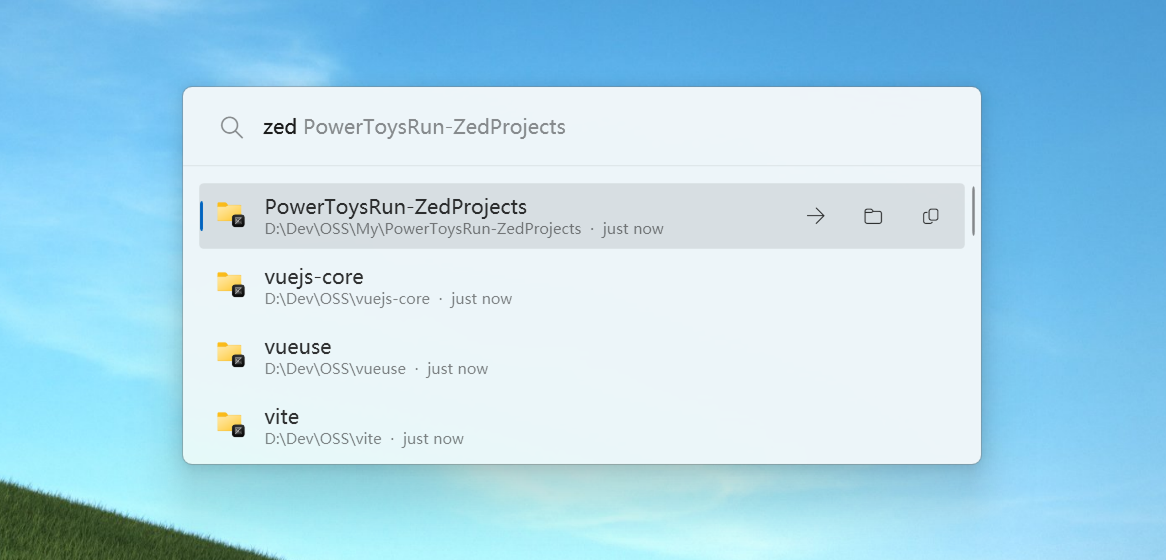
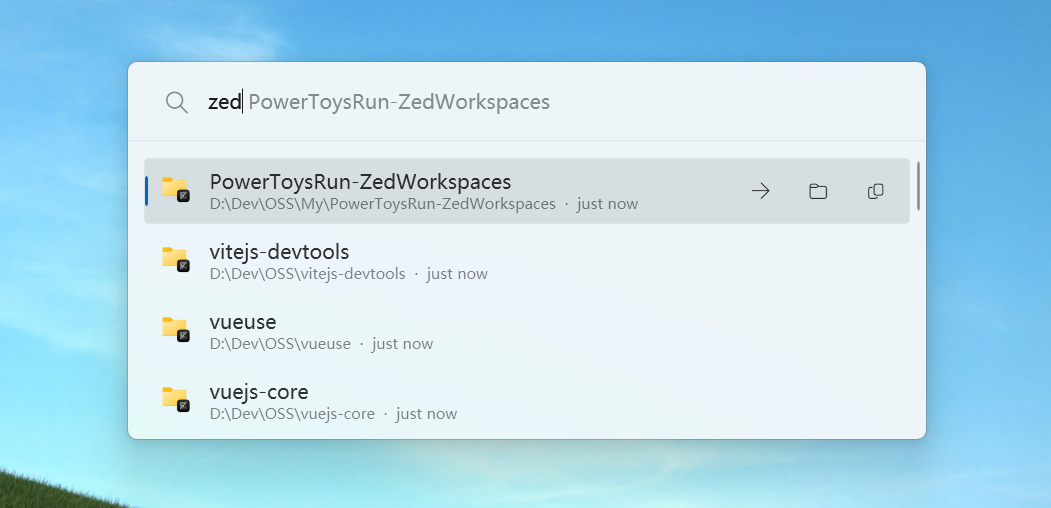
refactor: rename plugin ZedRecentProjects to ZedWorkspaces

diff --git a/tools/plugin-smoke/Program.cs b/tools/plugin-smoke/Program.cs
@@ -5,7 +5,7 @@ using System.Linq;
 using System.Reflection;
 using Microsoft.PowerToys.Settings.UI.Library;
 using Wox.Plugin;
-using ZedRecentProjects;
+using ZedWorkspaces;
 
 // The real PowerToys host resolves plugins' helper assemblies (e.g. Testably.Abstractions)
 // from its own install directory. Mirror that here so Query() can run outside the host.
@@ -55,7 +55,7 @@ foreach (var p in projects)
 Console.WriteLine("\n== TextMatcher checks ==");
 Check("vibe", "vibe-quota");
 Check("vibe", "D:\\Dev\\OSS\\My\\vibe-usage");
-Check("zed", "ZedRecentProjects");
+Check("zed", "ZedWorkspaces");
 Check("resume", "D:\\Work\\Resume\\2026\\RESUME.md");
 Check("nosuch", "vibe-quota");
 Check("", "anything");

diff --git a/src/ZedWorkspaces/Main.cs b/src/ZedWorkspaces/Main.cs
@@ -7,10 +7,10 @@ using System.Windows.Input;
 using Microsoft.PowerToys.Settings.UI.Library;
 using Wox.Plugin;
 
-namespace ZedRecentProjects;
+namespace ZedWorkspaces;
 
 /// <summary>
-/// Main class of the "Zed Recent Projects" plugin.
+/// Main class of the "Zed Workspaces" plugin.
 /// </summary>
 public class Main : IPlugin, IContextMenu, ISettingProvider, IDisposable
 {
@@ -22,7 +22,7 @@ public class Main : IPlugin, IContextMenu, ISettingProvider, IDisposable
     /// <summary>
     /// Name of the plugin.
     /// </summary>
-    public string Name => "Zed Recent Projects";
+    public string Name => "Zed Workspaces";
 
     /// <summary>
     /// Description of the plugin.

diff --git a/src/ZedWorkspaces/TextMatcher.cs b/src/ZedWorkspaces/TextMatcher.cs
@@ -2,7 +2,7 @@ using System;
 using System.Collections.Generic;
 using System.Linq;
 
-namespace ZedRecentProjects;
+namespace ZedWorkspaces;
 
 /// <summary>
 /// Self-contained fuzzy matcher (case-insensitive). No dependency on the Wox host or pinyin

diff --git a/src/ZedWorkspaces/ZedDatabase.cs b/src/ZedWorkspaces/ZedDatabase.cs
@@ -5,7 +5,7 @@ using System.Linq;
 using System.Runtime.InteropServices;
 using Microsoft.Data.Sqlite;
 
-namespace ZedRecentProjects;
+namespace ZedWorkspaces;
 
 /// <summary>
 /// Reads the recent project list from Zed's SQLite workspace database.

diff --git a/tools/plugin-smoke/StubApi.cs b/tools/plugin-smoke/StubApi.cs
@@ -3,7 +3,7 @@ using System.Collections.Generic;
 using ManagedCommon;
 using Wox.Plugin;
 
-namespace ZedRecentProjects;
+namespace ZedWorkspaces;
 
 /// <summary>
 /// Minimal host stub so the plugin can be exercised outside PowerToys.

diff --git a/src/ZedWorkspaces/ZedLauncher.cs b/src/ZedWorkspaces/ZedLauncher.cs
@@ -3,7 +3,7 @@ using System.Collections.Generic;
 using System.Diagnostics;
 using System.IO;
 
-namespace ZedRecentProjects;
+namespace ZedWorkspaces;
 
 /// <summary>
 /// Launches projects in the Zed editor via its CLI.

diff --git a/src/ZedWorkspaces/RelativeTime.cs b/src/ZedWorkspaces/RelativeTime.cs
@@ -1,6 +1,6 @@
 using System;
 
-namespace ZedRecentProjects;
+namespace ZedWorkspaces;
 
 /// <summary>
 /// Formats an UTC timestamp as a compact relative time string.

diff --git a/src/ZedWorkspaces/ZedProject.cs b/src/ZedWorkspaces/ZedProject.cs
@@ -1,4 +1,4 @@
-namespace ZedRecentProjects;
+namespace ZedWorkspaces;
 
 /// <summary>
 /// A single recent project loaded from Zed's workspace database.

diff --git a/README.md b/README.md
@@ -1,14 +1,14 @@
 <p align="center">
-  <img src="src/ZedRecentProjects/Images/plain-icon.png" alt="Zed Recent Projects logo" width="128" />
+  <img src="src/ZedWorkspaces/Images/plain-icon.png" alt="Zed Workspaces logo" width="128" />
 </p>
 
-<h1 align="center">Zed Projects</h1>
+<h1 align="center">Zed Workspaces</h1>
 
 <p align="center"><sub>Open recent <a href="https://github.com/zed-industries/zed">Zed</a> projects from <a href="https://github.com/microsoft/PowerToys">PowerToys Run</a>.</sub></p>
 
 <p align="center">
   <br>
-  <img src="assets/screenshot.png" alt="Zed Recent Projects demo" width="600" />
+  <img src="assets/screenshot.png" alt="Zed Workspaces demo" width="600" />
   <br>
 </p>
 
@@ -24,14 +24,14 @@
 
 ## 🚀 Install
 
-1. Download `ZedRecentProjects-<arch>.zip` from [Releases](https://github.com/JianJroh/PowerToysRun-ZedProjects/releases) — pick `win-x64` or `win-arm64` to match your CPU.
-2. Extract it and copy the resulting `ZedRecentProjects\` folder (containing `ZedRecentProjects.dll` and `plugin.json`) into:
+1. Download `ZedWorkspaces-<arch>.zip` from [Releases](https://github.com/JianJroh/PowerToysRun-ZedWorkspaces/releases) — pick `win-x64` or `win-arm64` to match your CPU.
+2. Extract it and copy the resulting `ZedWorkspaces\` folder (containing `ZedWorkspaces.dll` and `plugin.json`) into:
 
    ```
    %LOCALAPPDATA%\Microsoft\PowerToys\PowerToys Run\Plugins\
    ```
 
-   Final layout: `...\Plugins\ZedRecentProjects\plugin.json`
+   Final layout: `...\Plugins\ZedWorkspaces\plugin.json`
 3. Fully restart PowerToys (quit from the tray icon, then start again).
 
 ## ⌨ Usage
@@ -42,7 +42,7 @@ The plugin is **global**: results appear for any query. Typing `zed` first scope
 
 ## ⚙ Settings
 
-In *PowerToys Settings → PowerToys Run → Plugins → Zed Recent Projects*:
+In *PowerToys Settings → PowerToys Run → Plugins → Zed Workspaces*:
 
 | Setting | Default | Description |
 |---|---|---|
@@ -55,11 +55,11 @@ In *PowerToys Settings → PowerToys Run → Plugins → Zed Recent Projects*:
 Requires the [.NET 9 SDK](https://dotnet.microsoft.com/download/dotnet/9.0).
 
 ```powershell
-dotnet build src\ZedRecentProjects\ZedRecentProjects.csproj -c Release -p:Platform=x64 -r win-x64      # x64
-dotnet build src\ZedRecentProjects\ZedRecentProjects.csproj -c Release -p:Platform=ARM64 -r win-arm64  # ARM64
+dotnet build src\ZedWorkspaces\ZedWorkspaces.csproj -c Release -p:Platform=x64 -r win-x64      # x64
+dotnet build src\ZedWorkspaces\ZedWorkspaces.csproj -c Release -p:Platform=ARM64 -r win-arm64  # ARM64
 ```
 
-Output: `src\ZedRecentProjects\bin\<Platform>\Release\net9.0-windows10.0.26100.0\win-<arch>\`
+Output: `src\ZedWorkspaces\bin\<Platform>\Release\net9.0-windows10.0.26100.0\win-<arch>\`
 
 ## 🐛 Troubleshooting
 
@@ -67,7 +67,7 @@ Output: `src\ZedRecentProjects\bin\<Platform>\Release\net9.0-windows10.0.26100.0
 |---|---|
 | No results | Zed's DB schema may have changed. Inspect it with `dotnet run --project tools\zed-db-dump\zed-db-dump.csproj`. |
 | "Could not launch Zed" toast | `zed` CLI not found. Install Zed or add its folder to PATH. |
-| Plugin doesn't load | Confirm the folder contains `ZedRecentProjects.dll` and `plugin.json`, then fully restart PowerToys. |
+| Plugin doesn't load | Confirm the folder contains `ZedWorkspaces.dll` and `plugin.json`, then fully restart PowerToys. |
 | Settings seem ignored | PowerToys caches saved plugin settings — reset the value on the plugin's settings page. |
 
 ## 🧑💻 Development
@@ -78,7 +78,7 @@ Output: `src\ZedRecentProjects\bin\<Platform>\Release\net9.0-windows10.0.26100.0
 - Icons: `Images\icon.png` (result list), `Images\plain-icon.png` (PowerToys settings; keep a black silhouette on transparent)
 - Adding a setting: extend `OptionDefinitions` in `Main.cs`
 
-> The plugin reads recent projects from Zed's workspace history in `%LOCALAPPDATA%\Zed\db\<channel>\db.sqlite`, opened read-only. The schema has changed across Zed versions; if a future Zed release breaks the plugin, open an [issue](https://github.com/JianJroh/PowerToysRun-ZedProjects/issues).
+> The plugin reads recent projects from Zed's workspace history in `%LOCALAPPDATA%\Zed\db\<channel>\db.sqlite`, opened read-only. The schema has changed across Zed versions; if a future Zed release breaks the plugin, open an [issue](https://github.com/JianJroh/PowerToysRun-ZedWorkspaces/issues).
 
 ## 📄 License
 
